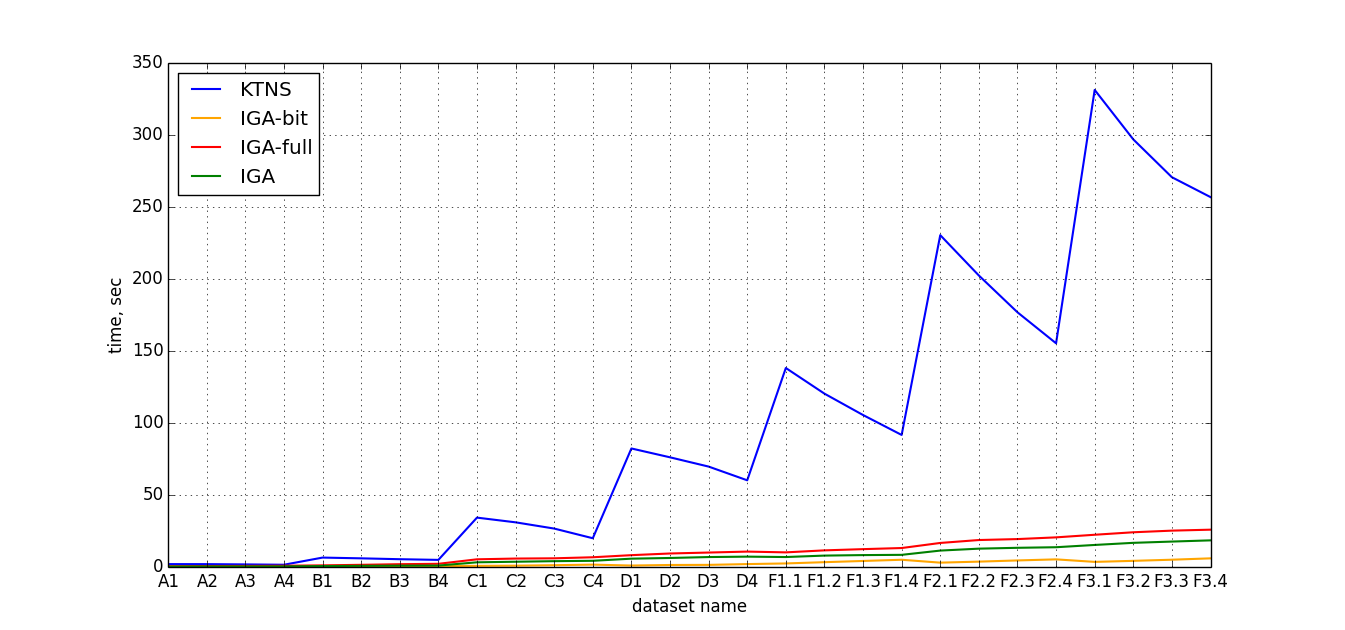
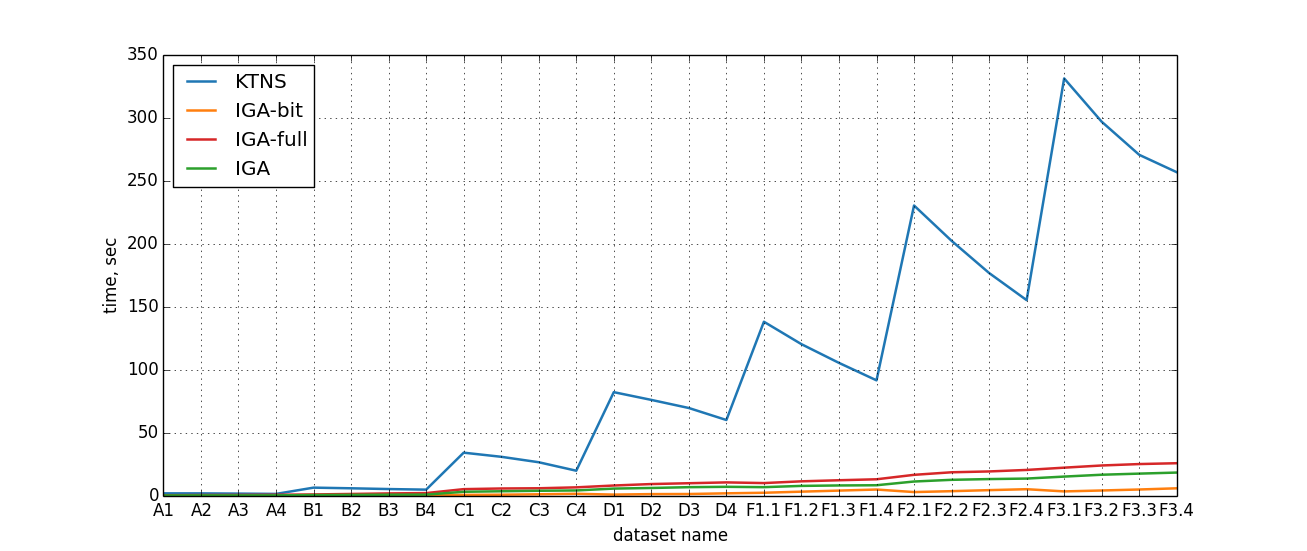
«update»

diff --git a/scripts/tests.py b/scripts/tests.py
@@ -4,13 +4,13 @@ import os, sys
 import subprocess
 import json
 
-# proc = subprocess.Popen([os.path.join(os.getcwd(), "main")], stdout=subprocess.PIPE)
+proc = subprocess.Popen([os.path.join(os.getcwd(), "main")], stdout=subprocess.PIPE)
 
-# while True:
-#   line = proc.stdout.readline()
-#   print(line)
-#   if not line:
-#     break
+while True:
+  line = proc.stdout.readline()
+  print(line)
+  if not line:
+    break
 
 
 with open(".//results/results.txt", "r") as f:
@@ -25,25 +25,24 @@ for line in results_txt.split("\n"):
     alg2results[alg] =  alg2results.get(alg, []) + [(dataset_name, data[dataset_name])]
 
 colors = {
-    "KTNS": "blue", 
-    "IGA-bit": "orange", 
-    "IGA": "green", 
-    "IGA-full": "red"
+    "KTNS": "#1f77b4",
+    "IGA-bit": "#ff7f0e",
+    "IGA": "#2ca02c",
+    "IGA-full": "#d62728"
 }
-
 
 for k in colors.keys():
     labels = list(map(lambda x : x[0], sorted(alg2results[k])))
     alg2results[k] = list(map(lambda x : x[1], sorted(alg2results[k])))
 n = len(labels)
 
-plt.rcParams["figure.figsize"] = (10,5)
+plt.rcParams["figure.figsize"] = (13,5)
 fig, ax = plt.subplots()
 plt.gca().set_xticks(range(n))
 ax.set_xticklabels(labels)
 
 for alg_name, results in alg2results.items():
-    ax.plot(list(range(n)), results, label=alg_name, color=colors[alg_name], linewidth=1.5)
+    ax.plot(list(range(n)), results, label=alg_name, color=colors[alg_name], linewidth=1.8)
 
 plt.legend(loc='upper left')
 plt.grid(True)
